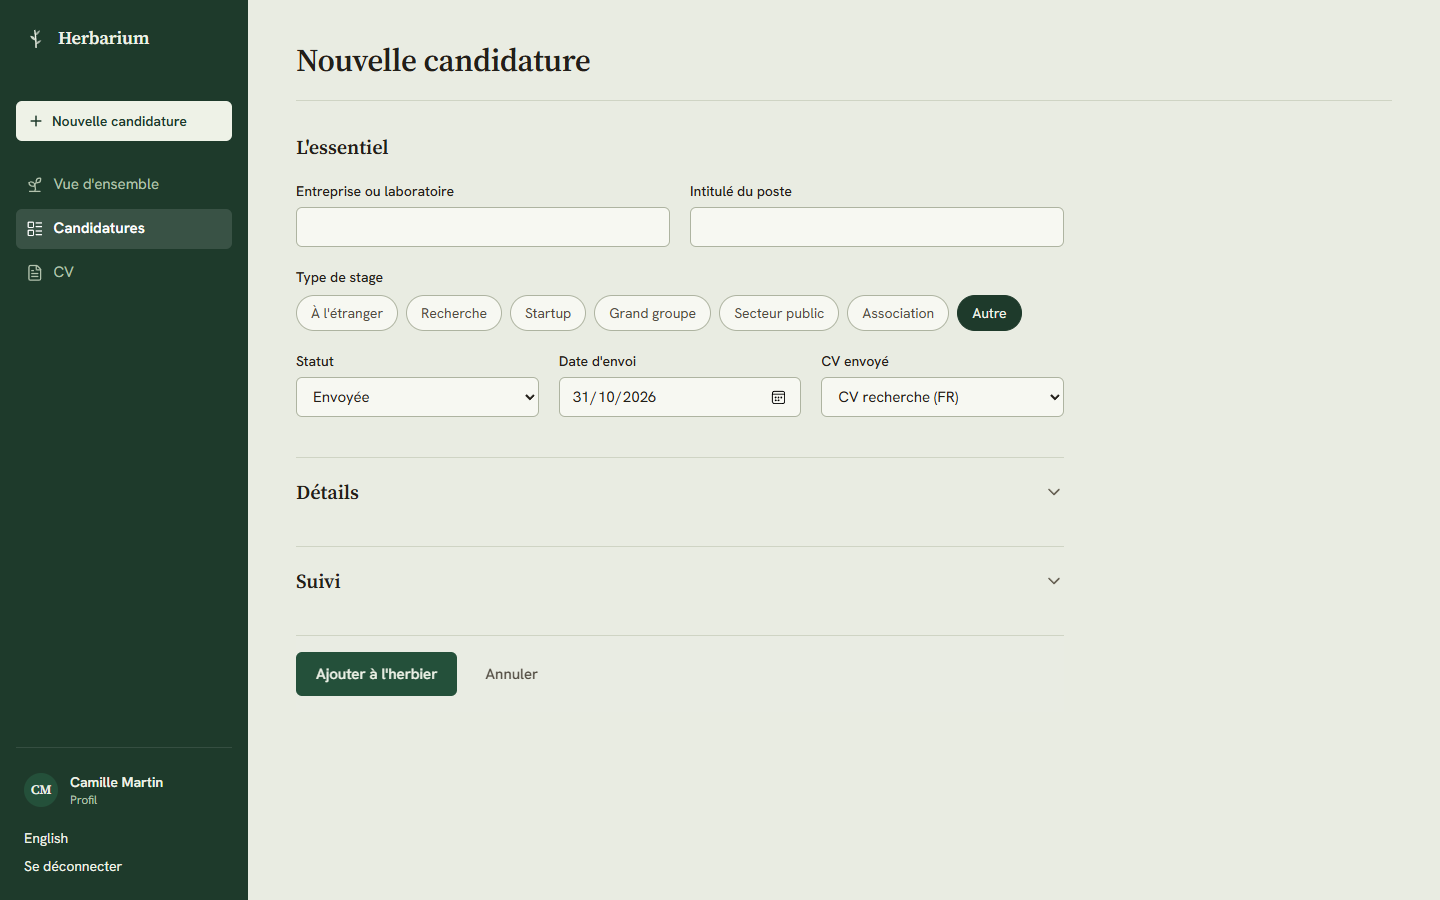
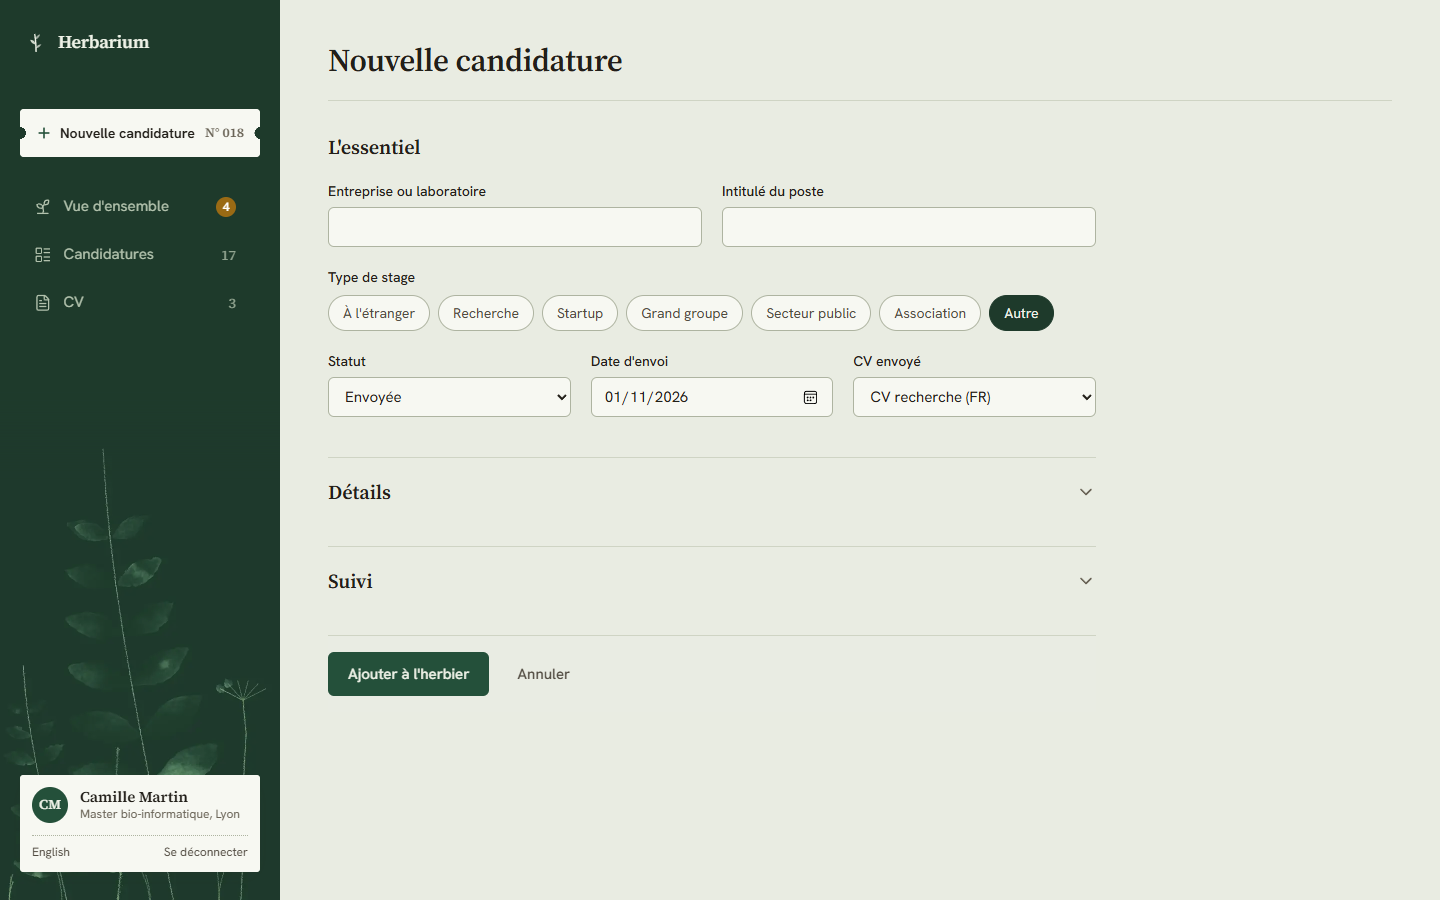
feat: a herbarium navigation rail
The active link is a paper index tab whose corners curve into the page,
like the tab of a herbarium folder; each section shows its count and the
overview flags overdue follow-ups. The new-application button is an
accession ticket with punched edges announcing the next number. A fern
painted with p5.brush rises behind the menu (recorded frames for
Firefox), and the account sits at its foot as a specimen label. README
screenshots refreshed.

diff --git a/src/app/app/layout.tsx b/src/app/app/layout.tsx
@@ -1,47 +1,65 @@
 import Link from "next/link";
 import { redirect } from "next/navigation";
 import { getDictionary } from "@/lib/i18n/server";
-import { getProfile } from "@/lib/data";
+import { format } from "@/lib/i18n/dictionaries";
+import { getProfile, getRailStats } from "@/lib/data";
+import { accession } from "@/lib/domain";
 import { Avatar } from "@/components/avatar";
 import { BrandMark } from "@/components/brand";
+import { Forest } from "@/components/forest";
 import { LocaleSwitch } from "@/components/locale-switch";
 import { signOut } from "@/app/auth/actions";
 import { AppNav } from "./app-nav";
 
 export default async function AppLayout({ children }: LayoutProps<"/app">) {
-  const [{ locale, t }, account] = await Promise.all([getDictionary(), getProfile()]);
+  const [{ locale, t }, account, stats] = await Promise.all([getDictionary(), getProfile(), getRailStats()]);
   if (!account) redirect("/login");
   const { user, profile, avatarUrl } = account;
   const name = profile?.display_name || user.email || "";
 
   const links = [
-    { href: "/app", label: t.nav.overview, icon: "overview" as const },
-    { href: "/app/applications", label: t.nav.applications, icon: "applications" as const },
-    { href: "/app/cvs", label: t.nav.cvs, icon: "cvs" as const },
+    {
+      href: "/app",
+      label: t.nav.overview,
+      icon: "overview" as const,
+      alert: { count: stats.followUpsDue, title: format(t.nav.dueTitle, { n: stats.followUpsDue }) },
+    },
+    { href: "/app/applications", label: t.nav.applications, icon: "applications" as const, count: stats.applications },
+    { href: "/app/cvs", label: t.nav.cvs, icon: "cvs" as const, count: stats.cvs },
   ];
 
   return (
-    <div className="min-h-dvh lg:grid lg:grid-cols-[15.5rem_1fr]">
+    <div className="min-h-dvh lg:grid lg:grid-cols-[17.5rem_1fr]">
       <aside className="sticky top-0 z-20 bg-fern text-fern-ink lg:h-dvh">
-        <div className="flex h-full items-center justify-between gap-3 px-4 py-3 lg:flex-col lg:items-stretch lg:justify-start lg:px-4 lg:py-6">
-          <div className="lg:px-2">
+        {/* A fern painted with p5.brush rises behind the menu. */}
+        <Forest scene="rail" duration={3000} className="absolute inset-x-0 bottom-0 hidden h-[58%] lg:block" />
+
+        <div className="relative flex h-full items-center justify-between gap-3 px-4 py-3 lg:flex-col lg:items-stretch lg:justify-start lg:py-7 lg:pl-5 lg:pr-0">
+          <div className="lg:pl-1">
             <BrandMark name={t.meta.title} href="/app" tone="fern" />
           </div>
-          <AppNav links={links} newLabel={t.applications.new} />
-          <div className="hidden border-t border-white/10 pt-4 text-sm lg:mt-auto lg:grid lg:gap-2 lg:px-2">
-            <Link href="/app/profile" className="-mx-2 mb-1 flex items-center gap-3 rounded-md px-2 py-2 hover:bg-white/6" title={t.nav.profile}>
-              <Avatar url={avatarUrl} name={name} size={34} />
-              <span className="min-w-0">
-                <span className="block truncate font-semibold text-fern-ink">{name}</span>
-                <span className="block truncate text-xs text-fern-muted">{t.nav.profile}</span>
-              </span>
-            </Link>
-            <LocaleSwitch locale={locale} label={t.nav.language} className="justify-self-start text-fern-ink" />
-            <form action={signOut}>
-              <button type="submit" className="cursor-pointer text-fern-ink underline-offset-4 hover:underline">
-                {t.nav.signOut}
-              </button>
-            </form>
+
+          <AppNav links={links} newLabel={t.applications.new} nextNumber={accession(stats.nextNumber)} nextNumberTitle={t.nav.nextNumber} />
+
+          {/* The owner's label, pinned at the foot of the sheet like a specimen label. */}
+          <div className="hidden lg:mr-5 lg:mt-auto lg:block">
+            <div className="rounded-[3px] bg-sheet-raised p-3 text-ink shadow-sheet">
+              <Link href="/app/profile" className="group flex items-center gap-3" title={t.nav.profile}>
+                <Avatar url={avatarUrl} name={name} size={36} />
+                <span className="min-w-0">
+                  <span className="block truncate font-serif text-[0.9375rem] font-semibold leading-tight group-hover:underline">{name}</span>
+                  <span className="block truncate text-xs text-ink-3">{profile?.programme || t.nav.profile}</span>
+                </span>
+              </Link>
+              <div className="mt-3 flex items-center justify-between border-t border-dotted border-rule-strong pt-2 text-xs text-ink-2">
+                <LocaleSwitch locale={locale} label={t.nav.language} className="text-xs text-ink-2" />
+                <form action={signOut}>
+                  <button type="submit" className="cursor-pointer underline-offset-4 hover:text-ink hover:underline">
+                    {t.nav.signOut}
+                  </button>
+                </form>
+              </div>
+            </div>
           </div>
         </div>
       </aside>

diff --git a/src/app/app/app-nav.tsx b/src/app/app/app-nav.tsx
@@ -6,42 +6,78 @@ import { FileText, LayoutList, Plus, Sprout } from "lucide-react";
 
 const ICONS = { overview: Sprout, applications: LayoutList, cvs: FileText };
 
+type NavLink = { href: string; label: string; icon: keyof typeof ICONS; count?: number; alert?: { count: number; title: string } };
+
+/**
+ * The rail navigation. Desktop: the active item is a paper index tab that
+ * runs into the page, like the tab of a herbarium folder. Mobile: a row of
+ * icons in the top bar.
+ */
 export function AppNav({
   links,
   newLabel,
+  nextNumber,
+  nextNumberTitle,
 }: {
-  links: { href: string; label: string; icon: keyof typeof ICONS }[];
+  links: NavLink[];
   newLabel: string;
+  nextNumber: string;
+  nextNumberTitle: string;
 }) {
   const pathname = usePathname();
   const isActive = (href: string) => (href === "/app" ? pathname === "/app" : pathname.startsWith(href));
+  const creating = pathname === "/app/applications/new";
 
   return (
-    <nav aria-label="Navigation" className="flex items-center gap-1 lg:mt-8 lg:grid lg:gap-1">
+    <nav aria-label="Navigation" className="flex items-center gap-1 lg:mt-9 lg:block">
       <Link
         href="/app/applications/new"
-        className="mb-0 inline-flex h-9 items-center gap-2 rounded-md bg-fern-ink px-3 text-sm font-semibold text-fern transition-colors duration-150 hover:bg-white lg:mb-5 lg:h-10"
+        aria-current={creating ? "page" : undefined}
+        className="rail-ticket group inline-flex h-9 items-center gap-2 whitespace-nowrap bg-sheet-raised px-3 text-sm font-semibold text-ink transition-[transform,background-color] duration-150 hover:bg-white lg:mr-5 lg:flex lg:h-12 lg:justify-between lg:px-4 lg:hover:-translate-y-px"
       >
-        <Plus className="size-4" strokeWidth={2.25} aria-hidden />
-        <span className="hidden sm:inline">{newLabel}</span>
+        <span className="inline-flex items-center gap-2">
+          <Plus className="size-4 text-action" strokeWidth={2.4} aria-hidden />
+          <span className="hidden sm:inline">{newLabel}</span>
+        </span>
+        <span className="tnum hidden font-serif text-[0.8125rem] font-semibold text-ink-3 lg:inline" title={nextNumberTitle}>
+          N° {nextNumber}
+        </span>
       </Link>
-      {links.map(({ href, label, icon }) => {
-        const Icon = ICONS[icon];
-        const active = isActive(href);
-        return (
-          <Link
-            key={href}
-            href={href}
-            aria-current={active ? "page" : undefined}
-            className={`inline-flex h-9 items-center gap-2.5 rounded-md px-2.5 text-sm transition-colors duration-150 lg:h-10 lg:text-[0.9375rem] ${
-              active ? "bg-white/12 font-semibold text-white" : "text-fern-muted hover:bg-white/6 hover:text-fern-ink"
-            }`}
-          >
-            <Icon className="size-[1.1rem] shrink-0" strokeWidth={1.75} aria-hidden />
-            <span className="sr-only sm:not-sr-only">{label}</span>
-          </Link>
-        );
-      })}
+
+      <ul className="flex items-center gap-1 lg:mt-7 lg:block lg:space-y-1">
+        {links.map(({ href, label, icon, count, alert }) => {
+          const Icon = ICONS[icon];
+          const active = isActive(href) && !creating;
+          return (
+            <li key={href}>
+              <Link
+                href={href}
+                aria-current={active ? "page" : undefined}
+                className={`rail-tab relative inline-flex h-9 items-center gap-3 rounded-md px-2.5 text-sm transition-colors duration-150 lg:flex lg:h-11 lg:rounded-l-lg lg:rounded-r-none lg:pl-3.5 lg:pr-6 lg:text-[0.9375rem] ${
+                  active
+                    ? "is-active bg-sheet-raised font-semibold text-ink lg:bg-sheet"
+                    : "text-fern-muted hover:bg-white/6 hover:text-fern-ink lg:mr-5 lg:rounded-r-lg"
+                }`}
+              >
+                <Icon className={`size-[1.1rem] shrink-0 ${active ? "text-action" : ""}`} strokeWidth={1.75} aria-hidden />
+                <span className="sr-only sm:not-sr-only lg:flex-1">{label}</span>
+                {alert && alert.count > 0 && (
+                  <span
+                    title={alert.title}
+                    className="tnum hidden h-5 min-w-5 items-center justify-center rounded-full bg-tape px-1.5 text-xs font-semibold text-white lg:inline-flex"
+                  >
+                    {alert.count}
+                    <span className="sr-only"> {alert.title}</span>
+                  </span>
+                )}
+                {count !== undefined && (
+                  <span className={`tnum hidden font-serif text-sm lg:inline ${active ? "text-ink-3" : "text-fern-muted/80"}`}>{count}</span>
+                )}
+              </Link>
+            </li>
+          );
+        })}
+      </ul>
     </nav>
   );
 }

diff --git a/src/components/forest.tsx b/src/components/forest.tsx
@@ -1,16 +1,17 @@
 "use client";
 
-import { LANDING_FOREST, LOGIN_FOREST } from "./brush/catalog";
-import { forestScene } from "./brush/scenes";
+import { LANDING_FOREST, LOGIN_FOREST, RAIL_FOREST } from "./brush/catalog";
+import { forestScene, railScene } from "./brush/scenes";
 import { FramePlayer } from "./frame-player";
 import { LivePainting, useLivePainting } from "./live-painting";
 
 const FADE = "linear-gradient(to bottom, transparent 0%, #000 22%)";
 
 const SCENES = {
-  landing: { sequence: LANDING_FOREST, seed: "landing-forest", tone: "sheet", quiet: { from: 0, to: 0.52 } },
-  login: { sequence: LOGIN_FOREST, seed: "login-forest", tone: "fern", quiet: undefined },
-} as const;
+  landing: { sequence: LANDING_FOREST, build: (w: number, h: number) => forestScene("landing-forest", w, h, "sheet", { from: 0, to: 0.52 }) },
+  login: { sequence: LOGIN_FOREST, build: (w: number, h: number) => forestScene("login-forest", w, h, "fern") },
+  rail: { sequence: RAIL_FOREST, build: (w: number, h: number) => railScene("rail", w, h) },
+};
 
 /**
  * A forest rising from the bottom edge. Painted live with p5.brush where the
@@ -39,9 +40,9 @@ export function Forest({
     >
       {live === null ? null : live ? (
         <LivePainting
-          seed={s.seed}
+          seed={s.sequence.name}
           paper={s.sequence.paper}
-          build={(w, h) => forestScene(s.seed, w, h, s.tone, s.quiet)}
+          build={s.build}
           duration={duration}
           fallback={frames}
         />

diff --git a/src/components/brush/scenes.ts b/src/components/brush/scenes.ts
@@ -102,3 +102,24 @@ export function forestScene(
 
   return steps;
 }
+
+/**
+ * The navigation rail: one tall fern frond rising behind the menu, with a
+ * smaller frond, an umbel, a wildflower and grass at its foot. Faint, so
+ * the menu stays readable over it.
+ */
+export function railScene(seed: string, width: number, height: number): Step[] {
+  const rand = prng(hash(seed));
+  const c = TONES.fern;
+  const ground = height + 2;
+  const fade = 0.55;
+  const steps: Step[] = [];
+  steps.push(...within(fern({ seed: `${seed}-tall`, base: [width * 0.62, ground], height: height * 0.92, ink: { stem: c.trunk, leaf: c.fern }, fade }), 0, 0.75));
+  steps.push(...within(fern({ seed: `${seed}-small`, base: [width * 0.24, ground], height: height * 0.48, ink: { stem: c.trunk, leaf: c.fern }, fade }), 0.15, 0.6));
+  steps.push(...within(umbel({ seed: `${seed}-umbel`, base: [width * 0.86, ground], height: height * 0.36, ink: { stem: c.grass, head: c.umbel }, fade: 0.7 }), 0.3, 0.55));
+  steps.push(...within(flower({ seed: `${seed}-flower`, stage: "flower", base: [width * 0.42, ground], height: height * 0.3, underpaint: c.underpaint, ink: { head: WILD[0], leaf: c.leaf, stem: c.stem }, fade: 0.9 }), 0.4, 0.55));
+  for (let i = 0; i < 6; i++) {
+    steps.push(...within(grass({ seed: `${seed}-g${i}`, base: [((i + rand.range(0.2, 0.8)) / 6) * width, ground], height: height * rand.range(0.05, 0.1), ink: { stem: c.grass } }), 0.5 + rand.range(0, 0.2), 0.3));
+  }
+  return steps;
+}

diff --git a/src/app/dev/frames/recorder.tsx b/src/app/dev/frames/recorder.tsx
@@ -4,13 +4,14 @@ import { useState } from "react";
 import {
   LANDING_FOREST,
   LOGIN_FOREST,
+  RAIL_FOREST,
   SPECIMEN_STAGES,
   SPECIMEN_VARIANTS,
   specimenSequence,
   type Sequence,
 } from "@/components/brush/catalog";
 import { recordFrames } from "@/components/brush/record";
-import { forestScene, specimenScene } from "@/components/brush/scenes";
+import { forestScene, railScene, specimenScene } from "@/components/brush/scenes";
 import type { Step } from "@/components/brush/botany";
 
 type Job = { seq: Sequence; seed: string; steps: Step[]; density: number };
@@ -28,6 +29,7 @@ function jobs(): Job[] {
   list.push({ seq: landing, seed: "landing-forest", density: 1, steps: forestScene("landing-forest", landing.width, landing.height, "sheet", { from: 0, to: 0.52 }) });
   const login = LOGIN_FOREST;
   list.push({ seq: login, seed: "login-forest", density: 1, steps: forestScene("login-forest", login.width, login.height, "fern") });
+  list.push({ seq: RAIL_FOREST, seed: "rail", density: 2, steps: railScene("rail", RAIL_FOREST.width, RAIL_FOREST.height) });
   return list;
 }
 

diff --git a/src/app/globals.css b/src/app/globals.css
@@ -137,3 +137,37 @@ textarea {
     animation-duration: 0.01ms !important;
   }
 }
+
+/*
+ * Navigation rail (app shell).
+ * The "new application" button is an accession ticket with punched edges;
+ * the active link is a folder index tab whose corners curve into the page.
+ */
+.rail-ticket {
+  border-radius: 3px;
+  --punch: radial-gradient(circle 6px at 0 50%, #0000 97%, #000) left / 51% 100% no-repeat,
+    radial-gradient(circle 6px at 100% 50%, #0000 97%, #000) right / 51% 100% no-repeat;
+  -webkit-mask: var(--punch);
+  mask: var(--punch);
+  box-shadow: 0 1px 0 rgb(0 0 0 / 0.18);
+}
+
+@media (min-width: 64rem) {
+  .rail-tab.is-active::before,
+  .rail-tab.is-active::after {
+    content: "";
+    position: absolute;
+    right: 0;
+    width: 14px;
+    height: 14px;
+    pointer-events: none;
+  }
+  .rail-tab.is-active::before {
+    top: -14px;
+    background: radial-gradient(circle at 0 0, #0000 13.5px, var(--sheet) 14px);
+  }
+  .rail-tab.is-active::after {
+    bottom: -14px;
+    background: radial-gradient(circle at 0 100%, #0000 13.5px, var(--sheet) 14px);
+  }
+}

diff --git a/src/lib/data.ts b/src/lib/data.ts
@@ -48,3 +48,25 @@ export async function getProfile() {
   }
   return { user: auth.user, profile: data, avatarUrl };
 }
+
+/** Counts shown in the navigation rail. */
+export async function getRailStats() {
+  const supabase = await createClient();
+  const today = new Date().toISOString().slice(0, 10);
+  const [apps, cvs, overdue, last] = await Promise.all([
+    supabase.from("applications").select("id", { count: "exact", head: true }),
+    supabase.from("cvs").select("id", { count: "exact", head: true }),
+    supabase
+      .from("applications")
+      .select("id", { count: "exact", head: true })
+      .in("status", ["applied", "followed_up"])
+      .lte("follow_up_on", today),
+    supabase.from("applications").select("number").order("number", { ascending: false }).limit(1).maybeSingle(),
+  ]);
+  return {
+    applications: apps.count ?? 0,
+    cvs: cvs.count ?? 0,
+    followUpsDue: overdue.count ?? 0,
+    nextNumber: (last.data?.number ?? 0) + 1,
+  };
+}

diff --git a/src/components/brush/catalog.ts b/src/components/brush/catalog.ts
@@ -30,6 +30,8 @@ export const LANDING_FOREST: Sequence = { name: "forest-landing", width: 1600, h
 // Watercolour on a transparent ground turns pale over dark green, so the
 // login forest is painted on the rail colour; its top edge is faded out.
 export const LOGIN_FOREST: Sequence = { name: "forest-login", width: 900, height: 820, frames: 16, paper: "#1e3a2b" };
+// The navigation rail fern, on the rail green.
+export const RAIL_FOREST: Sequence = { name: "forest-rail", width: 280, height: 560, frames: 12, paper: "#1e3a2b" };
 
 export function framePath(seq: Sequence, index: number) {
   return `/frames/${seq.name}/${String(index).padStart(2, "0")}.webp`;

diff --git a/src/lib/i18n/dictionaries.ts b/src/lib/i18n/dictionaries.ts
@@ -14,6 +14,8 @@ const fr = {
     cvs: "CV",
     signOut: "Se déconnecter",
     profile: "Profil",
+    dueTitle: "{n} relance(s) en retard",
+    nextNumber: "Numéro de la prochaine candidature",
     signIn: "Se connecter",
     start: "Commencer mon herbier",
     language: "English",
@@ -305,6 +307,8 @@ const en: Dictionary = {
     cvs: "CVs",
     signOut: "Sign out",
     profile: "Profile",
+    dueTitle: "{n} overdue follow-up(s)",
+    nextNumber: "Number of the next application",
     signIn: "Sign in",
     start: "Start my herbarium",
     language: "Français",
